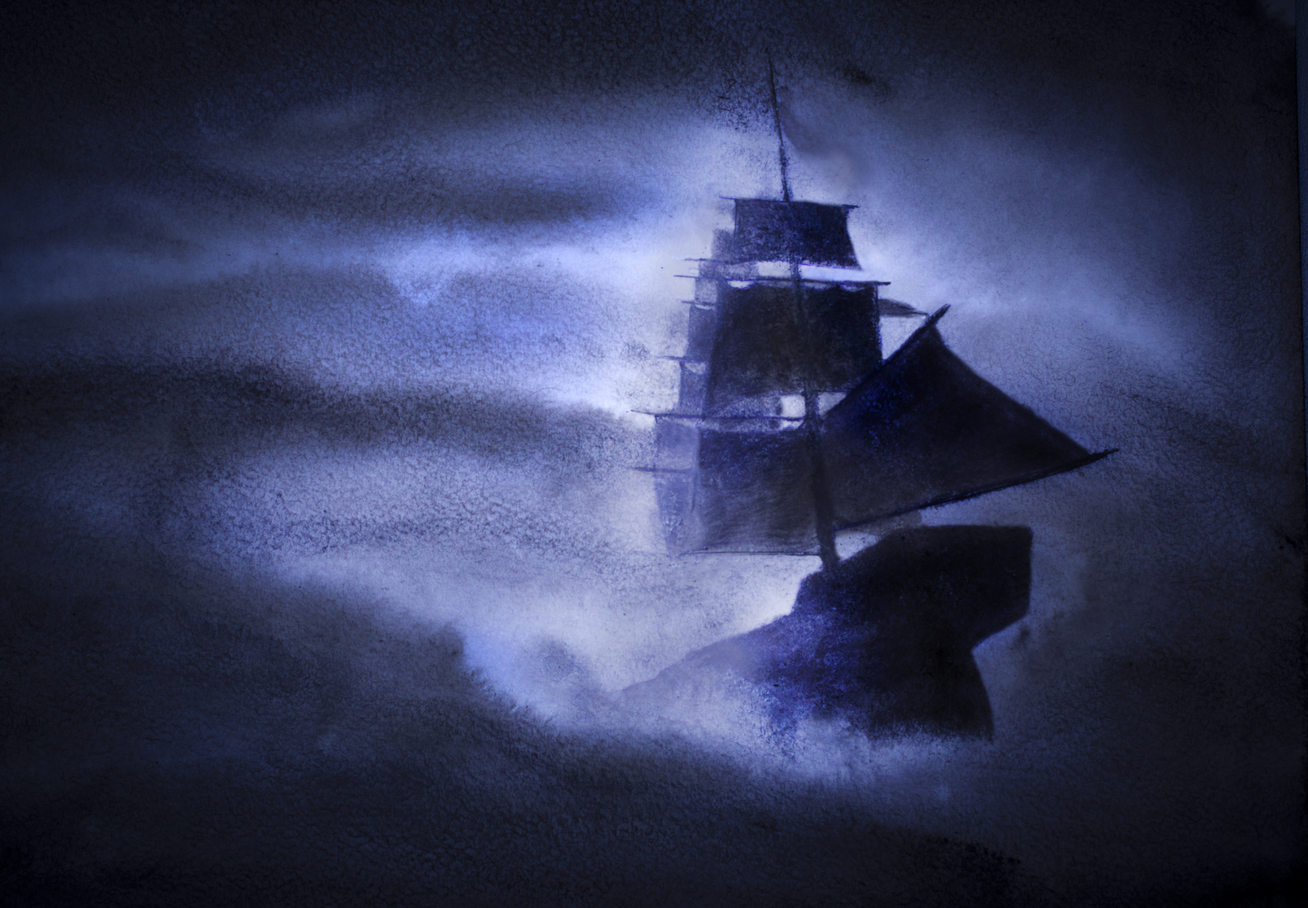
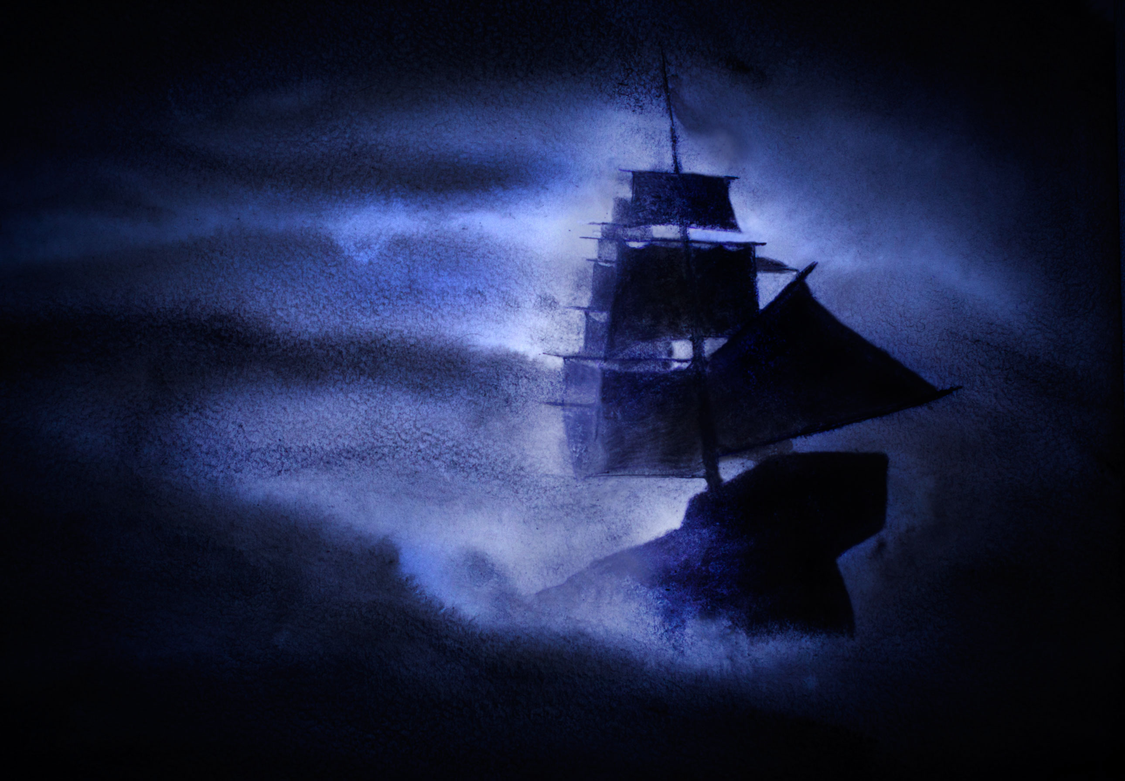
new color scheme and darkened bg

diff --git a/js/main.js b/js/main.js
@@ -126,7 +126,9 @@ function userMessage(input) {
 // Userflow icons and instructions rendering
 function userFlow(imgSrc, instructions) {
 	$('#user-input').prepend(`<div id='user-flow'>
-															<img src='${imgSrc}'>
+													    <div id='user-flow-img'>
+															  <img src='${imgSrc}'>
+														  </div>
 													  	<p>${instructions}</p>
 													 </div>`);
 }
@@ -169,7 +171,7 @@ function checkForAllergies() {
 														    </form>
 														    </div>`);
 	// $('#user-flow').remove();
-	userFlow('images/allergy.jpg', 'Avast matey, do you have allergies? When yer done choosing or no allergies apply press \'Enter\' or \'Next\'');
+	userFlow('images/allergy-green.jpg', 'Avast matey, do you have allergies? When yer done choosing or no allergies apply press \'Next\'');
 	if (readyForAllergies) {
 		getCheckedValues('.allergy', allergyVal, true, checkForDiet);
 		readyForDiet = true;
@@ -199,7 +201,7 @@ function checkForDiet() {
 														    </form>
 														    </div>`);
 	$('#user-flow').remove();
-	userFlow('images/diet.jpg', 'Aye but are you on a diet? When yer done choosing or no diets apply press \'Next\'');
+	userFlow('images/diet-green.jpg', 'Aye but are you on a diet? When yer done choosing or no diets apply press \'Next\'');
 	
 	if (readyForDiet) {
 		getCheckedValues('.diet', dietVal, false, getMeal);
@@ -233,7 +235,7 @@ function getMeal() {
 																		</form>`);
 
 	$('#user-flow').remove();
-	userFlow('images/meal.jpg', 'Type desired meal below or skip with \'Next\'');
+	userFlow('images/meal-green.jpg', 'Type desired meal below or skip with \'Next\'');
 
 	const tagsInput = document.getElementsByClassName('tags-input');
 	let mainInput = document.createElement('input');
@@ -295,7 +297,7 @@ function getAllowedIng() {
 		$('.tags-input').empty();
 	}
 	$('#user-flow').remove();
-	userFlow('images/allowed.jpg', 'Type allowed ingredients below or skip with \'Next\'');
+	userFlow('images/allowed-green.jpg', 'Type allowed ingredients below or skip with \'Next\'');
 	getTags(getExcludedIng);
 	$('.main-input').focus().attr('placeholder', 'Type allowed ingredients here...');
 }
@@ -313,7 +315,7 @@ function getExcludedIng() {
 		$('.tags-input').empty();
 	}
 	$('#user-flow').remove();
-	userFlow('images/excluded.jpg', 'Type excluded ingredients below or skip with \'Next\'');
+	userFlow('images/excluded-green.jpg', 'Type excluded ingredients below or skip with \'Next\'');
 	getTags(startingSearch);
 	$('.main-input').focus().attr('placeholder', 'Type excluded ingredients here...');
 }
@@ -368,7 +370,7 @@ function userRestart() {
 			allergyVal;
 			dietVal;
 			recipes = [];
-			userFlow('images/allergy.jpg', 'Avast matey, do you have allergies? When yer done choosing or no allergies apply press \'Enter\' or \'Next\'');
+			userFlow('images/allergy-green.jpg', 'Avast matey, do you have allergies? When yer done choosing or no allergies apply press \'Enter\' or \'Next\'');
 			checkForAllergies();
 			$('#user-input').css('display', 'block');
     }

diff --git a/css/main.css b/css/main.css
@@ -60,7 +60,7 @@ input[type="submit"] {
 	padding: 0;
 	height: 50px;
 	width: 100%;
-	background-color: #c21a25;
+	background-color: #74D585;
 	color: white;
 	border-radius: 4px;
 	font-size: 1rem;
@@ -71,7 +71,7 @@ input[type="submit"] {
 button:hover,
 input[type="submit"]:hover {
 	cursor: pointer;
-	background-color: #abbd81;
+	background-color: #30A945;
 	color: white;
 }
 
@@ -81,7 +81,7 @@ input[type="submit"]:hover {
 	margin: 0 auto;
 	padding: 10px;
 	background-color: #000000c2;
-  border: 3px solid #e15b64;
+  border: 3px solid #74d585;
 	border-radius: .4em;
 	overflow: scroll;
 	display: flex;
@@ -106,7 +106,7 @@ input[type="submit"]:hover {
 
 .bot-message {
 	font-size: 0.9rem;
-	background: #e15b64;
+	background: #3c3d86;
 	text-align: left;
 	margin-left: 75px;
 }
@@ -119,7 +119,7 @@ input[type="submit"]:hover {
 	width: 0;
 	height: 0;
 	border: 1em solid transparent;
-	border-right-color: #e15b64;
+	border-right-color: #3c3d86;
 	border-left: 0;
 	border-bottom: 0;
 	margin-top: -0.5em;
@@ -149,7 +149,7 @@ input[type="submit"]:hover {
 
 .user-message {
 	float: right;
-	background: #abbd81;
+	background: #74D585;
 	text-align: right;
 	margin-right: 75px;
 }
@@ -162,7 +162,7 @@ input[type="submit"]:hover {
 	width: 0;
 	height: 0;
 	border: 1em solid transparent;
-	border-left-color: #abbd81;
+	border-left-color: #74D585;
 	border-right: 0;
 	border-bottom: 0;
 	margin-top: -0.5em;
@@ -191,6 +191,14 @@ input[type="submit"]:hover {
 
 #user-flow p::before {
 	content: 'Instructions: ';
+	font-weight: bold;
+}
+
+#user-flow-img {
+	width: 100%;
+	background-color: #74d585;
+	padding: 10px; 
+	border-radius: .3em;
 }
 
 .tags-input {
@@ -377,7 +385,7 @@ input.diet {
   text-align: right;
   cursor: pointer;
   position: fixed;
-  padding: 6px 24px;
+  padding: 0px 20px;
   left: 85%;
   top: 7%;
   transform: translate(-50%, -50%);
@@ -461,7 +469,6 @@ input.diet {
 	}
 	#closeLightbox {
 		font-size: 2.2rem;
-	  padding: 6px 28px;
 	  left: 80%;
 	  top: 3.5%;
 	}	
